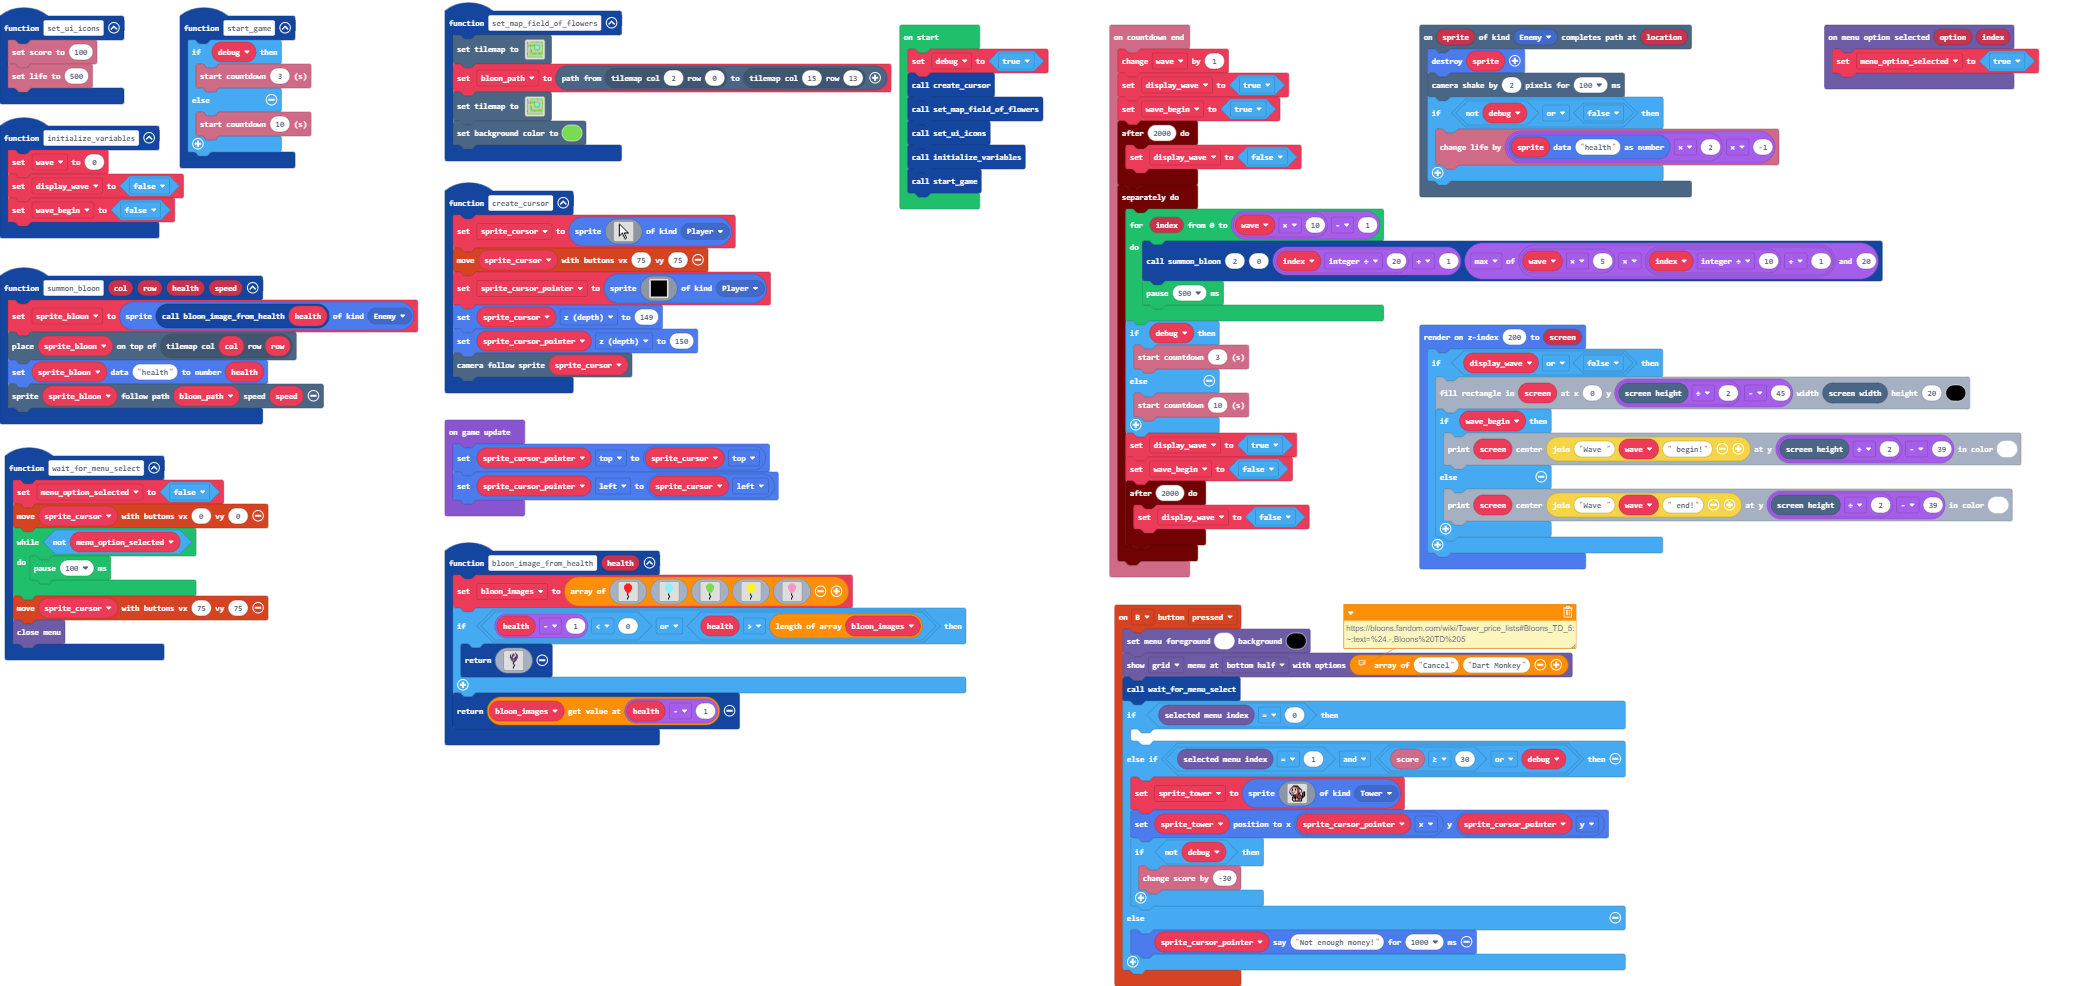
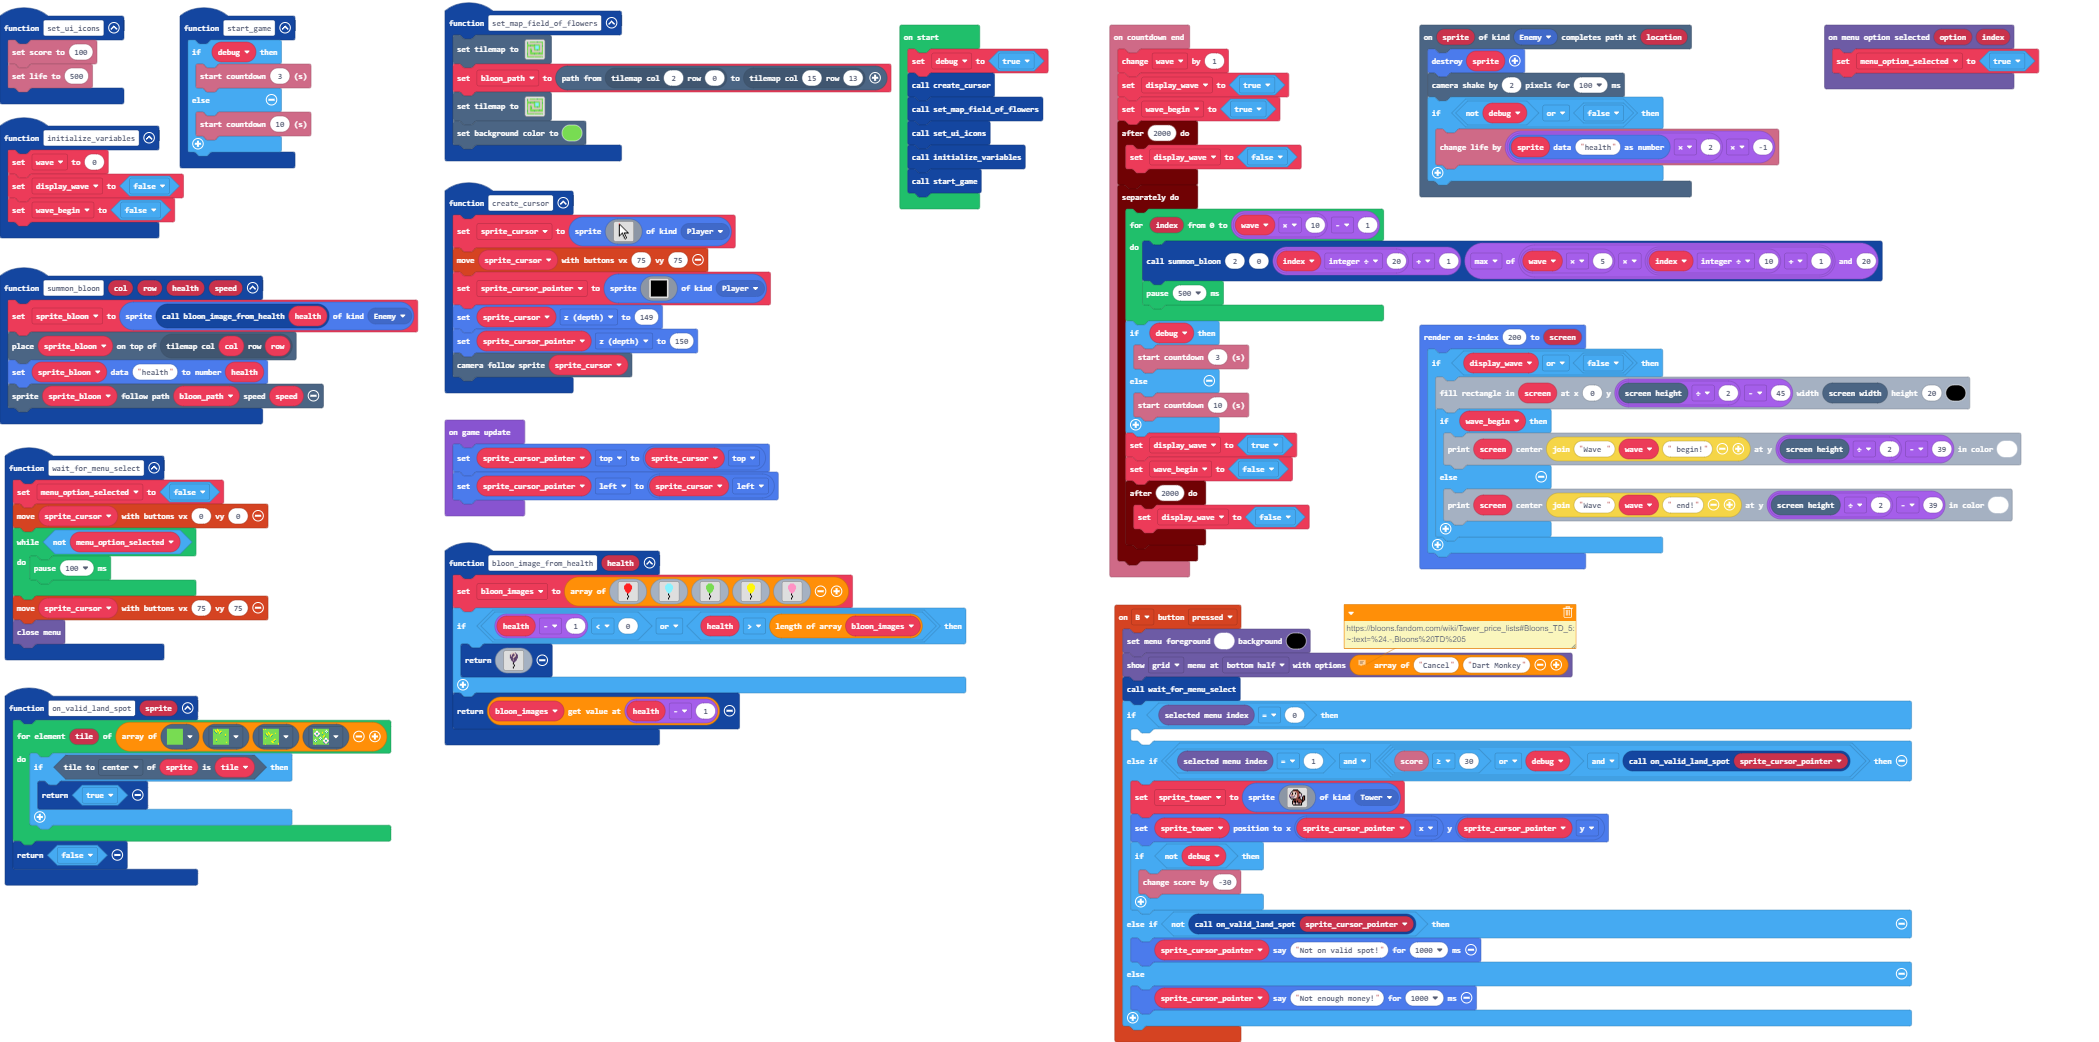
Check for valid spot

diff --git a/main.ts b/main.ts
@@ -6,6 +6,14 @@ function initialize_variables () {
     display_wave = false
     wave_begin = false
 }
+function on_valid_land_spot (sprite: Sprite) {
+    for (let tile of [myTiles.tile1, sprites.castle.tileGrass1, sprites.castle.tileGrass3, sprites.castle.tileGrass2]) {
+        if (sprite.tileKindAt(TileDirection.Center, tile)) {
+            return true
+        }
+    }
+    return false
+}
 scene.onPathCompletion(SpriteKind.Enemy, function (sprite, location) {
     sprite.destroy()
     scene.cameraShake(2, 100)
@@ -20,7 +28,7 @@ controller.B.onEvent(ControllerButtonEvent.Pressed, function () {
     wait_for_menu_select()
     if (blockMenu.selectedMenuIndex() == 0) {
     	
-    } else if (blockMenu.selectedMenuIndex() == 1 && (info.score() >= 30 || debug)) {
+    } else if (blockMenu.selectedMenuIndex() == 1 && ((info.score() >= 30 || debug) && on_valid_land_spot(sprite_cursor_pointer))) {
         sprite_tower = sprites.create(img`
             . . . . f f f f f . . . . . . . 
             . . . f e e e e e f . . . . . . 
@@ -43,6 +51,8 @@ controller.B.onEvent(ControllerButtonEvent.Pressed, function () {
         if (!(debug)) {
             info.changeScoreBy(-30)
         }
+    } else if (!(on_valid_land_spot(sprite_cursor_pointer))) {
+        sprite_cursor_pointer.say("Not on valid spot!", 1000)
     } else {
         sprite_cursor_pointer.say("Not enough money!", 1000)
     }
@@ -291,8 +301,8 @@ let bloon_images: Image[] = []
 let bloon_path: tiles.Location[] = []
 let sprite_cursor: Sprite = null
 let menu_option_selected = false
-let sprite_cursor_pointer: Sprite = null
 let sprite_tower: Sprite = null
+let sprite_cursor_pointer: Sprite = null
 let wave_begin = false
 let display_wave = false
 let wave = 0
